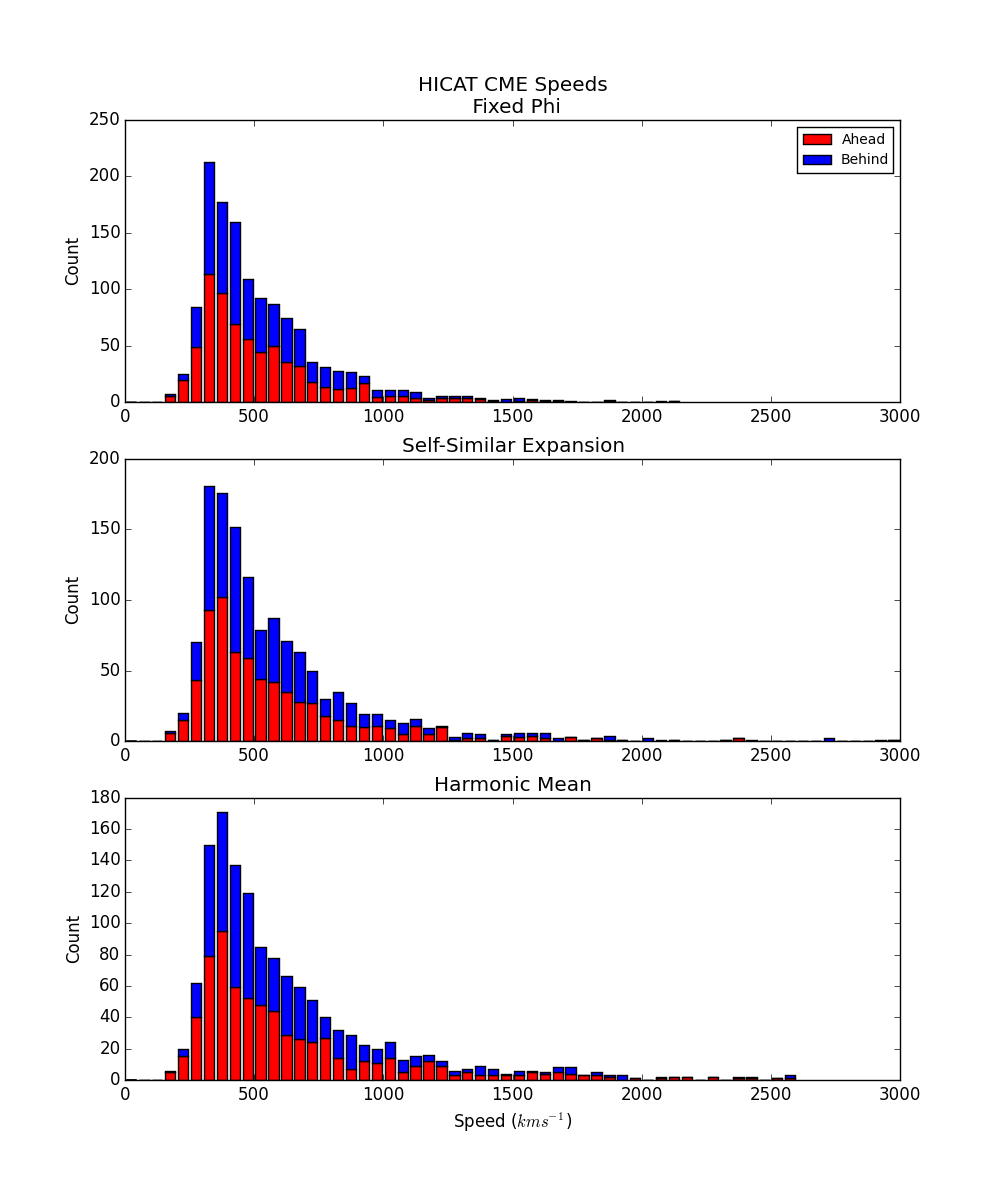
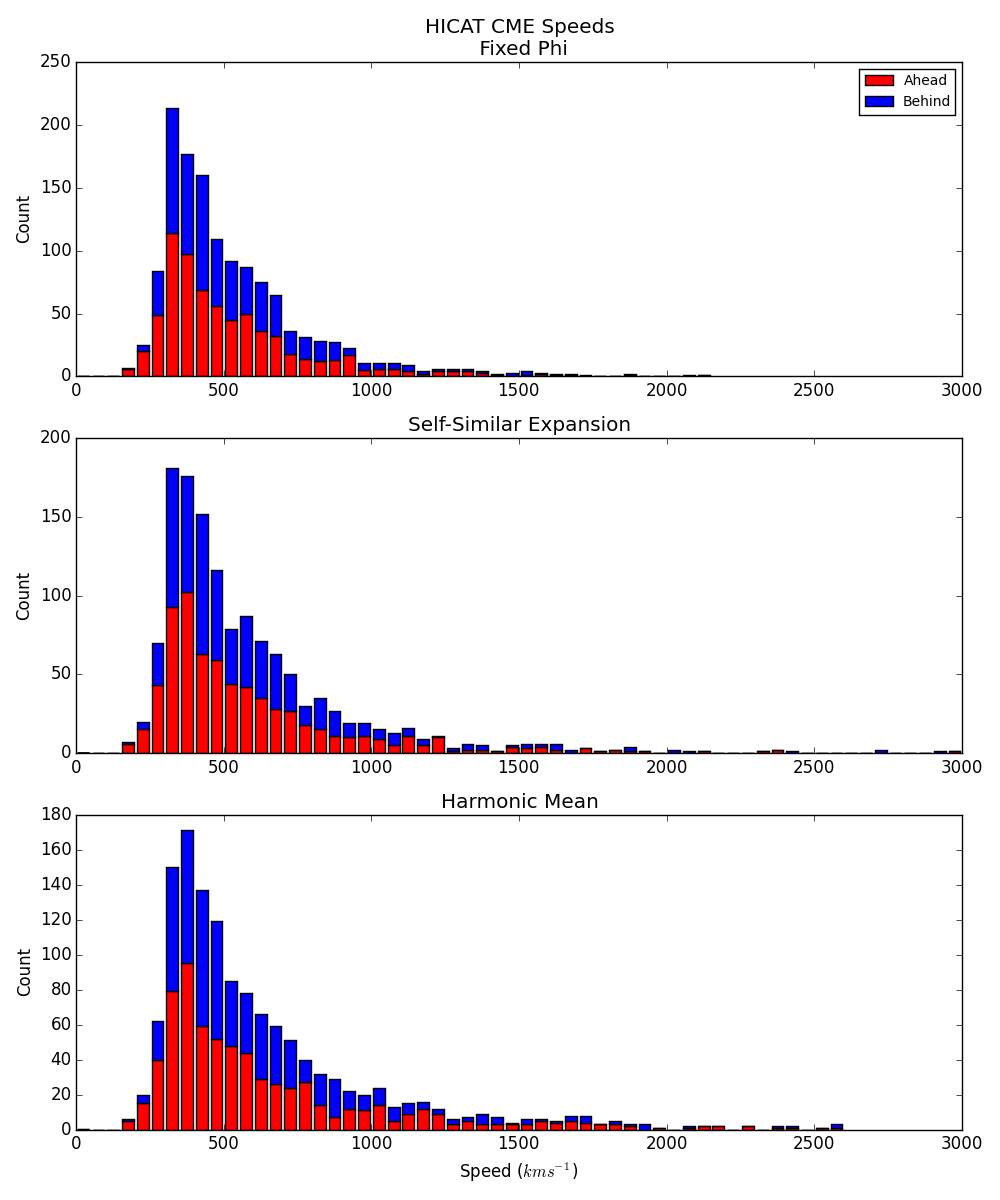
New CDAW plot and code

diff --git a/hicat_plots.py b/hicat_plots.py
@@ -14,7 +14,7 @@ Calls   :       os, numpy, matplotlib, pandas
 		config, savefig, cmes
 Written :       Jason P Byrne, STFC/RAL Space, Dec 2015 (jason.byrne@stfc.ac.uk)
 Revisions:
-2015-12-08 JPB : 
+2015-12-11 JPB : Adding hicat_pa function. 
 '''
 
 import os
@@ -66,6 +66,7 @@ def hi_geom_speeds(v,**kwargs):
 
 # Histogram of STEREO-Ahead & Behind speeds
 def hicat_all_speeds(*args,**kwargs):
+	# input the speeds from Ahead & Behind of each of the FP, SSE, HM geometrical fittings.
 	fp_a = args[0]
 	fp_b = args[1]
 	sse_a = args[2]
@@ -97,8 +98,38 @@ def hicat_all_speeds(*args,**kwargs):
         plt.xlim(speeds_lim)
         plt.xlabel(speeds_label)
         plt.ylabel("Count")
+	plt.tight_layout()
         save(path=os.path.join(config.hicat_path,"hicat_speeds_hist"),verbose=True)
 
+# Histogram of STEREO-Ahead & Behind CME counts against position angles
+def hicat_pa(df_a,df_b):
+	binwidth = 5
+	plt.figure(num=None,figsize=(8,10),dpi=80,facecolor='w',edgecolor='k')
+	plt.subplot(211)
+	pa_a = (df_a["PA-N [deg]"].values+df_a["PA-S [deg]"].values)/2
+	pa_b = (df_b["PA-N [deg]"].values+df_b["PA-S [deg]"].values)/2
+	pa_all = np.append(pa_a,pa_b)
+	plt.hist(pa_all,bins=np.arange(0,max(pa_all)+binwidth,binwidth),normed=False)
+	plt.xlim([0,360])
+	plt.xlabel("Position Angle ($deg.$)")
+	plt.ylabel("Count")
+	plt.title("HICAT CMEs Central Position Angle")
+	plt.text(30,90,r'$\mu=%d$' % np.mean(pa_a))
+        plt.text(210,90,r'$\mu=%d$' % np.mean(pa_b))
+	plt.subplot(212)
+	pa_a = df_a["PA-fit"].values
+	pa_b = df_b["PA-fit"].values
+	pa_all = np.append(pa_a,pa_b)
+	plt.hist(pa_all,bins=np.arange(0,max(pa_all)+binwidth,binwidth),normed=False)
+        plt.xlim([0,360])
+        plt.xlabel("Position Angle ($deg.$)")
+        plt.ylabel("Count")
+	plt.title("HICAT CMEs Fitted Position Angle")
+	plt.text(30,65,r'$\mu=%d$' % np.mean(pa_a))
+	plt.text(210,65,r'$\mu=%d$' % np.mean(pa_b))
+	plt.tight_layout()
+	save(path=os.path.join(config.hicat_path,"hicat_pa"),verbose=True)
+#Do a means test on the pa???
 
 # Scatterplot of STEREO-Ahead/Behind speeds against position angles
 def hicat_spc_speeds_pa(df_hicat,spc):
@@ -166,6 +197,8 @@ def run_all():
 	df_a = df_hicat[(df_hicat['SC']=='A')]
 	df_b = df_hicat[(df_hicat['SC']=='B')]
 
+	hicat_pa(df_a,df_b)
+
 	hicat_stacked_speeds()
 	
 	hi_geom_speeds(df_hicat[["FP speed [kms-1]"]],tit='FixedPhi')
@@ -174,9 +207,9 @@ def run_all():
 	hicat_spc_speeds_pa(df_b,1)
 	hicat_speeds_pa(df_hicat)
 
-	hicat_all_speeds(df_a[['FP speed [kms-1]']].values, df_b[['FP speed [kms-1]']].values,\
-                df_a[['SSE speed [kms-1]']].values, df_b[['SSE speed [kms-1]']].values,\
-                df_a[['HM speed [kms-1]']].values, df_b[['HM speed [kms-1]']].values,\
+	hicat_all_speeds(df_a['FP speed [kms-1]'].values, df_b['FP speed [kms-1]'].values,\
+                df_a['SSE speed [kms-1]'].values, df_b['SSE speed [kms-1]'].values,\
+                df_a['HM speed [kms-1]'].values, df_b['HM speed [kms-1]'].values,\
                 tit=["Fixed Phi","Self-Similar Expansion","Harmonic Mean"])
 
 	hicat_speeds_datetime(df_hicat)

diff --git a/cdaw_plots.py b/cdaw_plots.py
@@ -39,8 +39,6 @@ df_cdaw = cdaw().convert_objects(convert_numeric=True)
 
 # global variables
 binwidth=50 
-colors = ['r','b','grey']
-labels = ['Ahead','Behind','']
 speeds_lim = [0,3000]
 speeds_label = "Speed ($km s^{-1}$)"
 ledge_sz = 10
@@ -64,18 +62,31 @@ def cdaw_hists(df_cdaw,cols):
 	plt.ylabel(speeds_label)
 	plt.title("CDAW LASCO CME Catalog")
 
-# Histogram of STEREO-Ahead/Behind speeds
+# Histograms of CDAW CME position angles
+def cdaw_pa(df_cdaw):
+	binwidth=5
+	plt.figure(num=None,figsize=(8,10),dpi=80,facecolor='w',edgecolor='k')
+	plt.subplot(211)
+	plt.hist(df_cdaw.cpa.values,bins=np.arange(0,max(df_cdaw.cpa)+binwidth,binwidth),normed=False)
+	plt.xlim([0,360])
+	plt.xlabel("Position Angle ($deg.$)")
+	plt.ylabel("Count")
+	plt.title("CDAW CMEs Central Position Angle")
+	plt.subplot(212)
+	plt.hist(df_cdaw.mpa.values,bins=np.arange(0,max(df_cdaw.mpa)+binwidth,binwidth),normed=False)
+	plt.xlim([0,360])
+	plt.xlabel("Position Angle ($deg.$)")
+	plt.ylabel("Count")
+	plt.title("CDAW CMEs Measured Position Angle")
+	plt.tight_layout()
+	save(path=os.path.join(config.cdaw_path,"cdaw_pa"),verbose=True)
+
+cdaw_pa(df_cdaw)
+
+# Histogram of CDAW linear speeds
 def hi_geom_speeds(v,**kwargs):
 	if kwargs:
 		print kwargs
-	if 'spc' in kwargs:
-		spc = kwargs['spc']
-	else:
-		spc = -1
-	if 'tit' in kwargs:
-		tit = kwargs['tit']
-	else:
-		tit = ""
 	v = np.array(v.astype('float'))
 	plt.hist(v,bins=np.arange(0, max(v) + binwidth, binwidth),color=colors[spc])
 	plt.title("%s STEREO %s" %(tit,labels[spc]))
